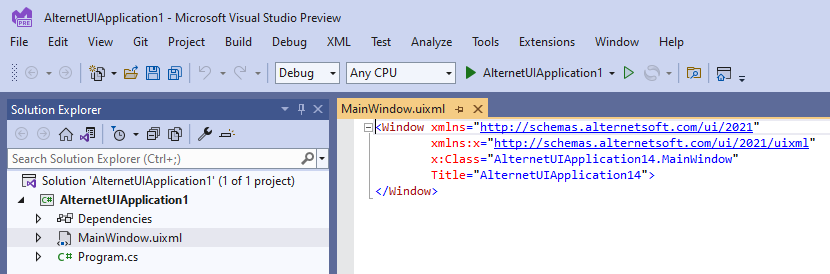
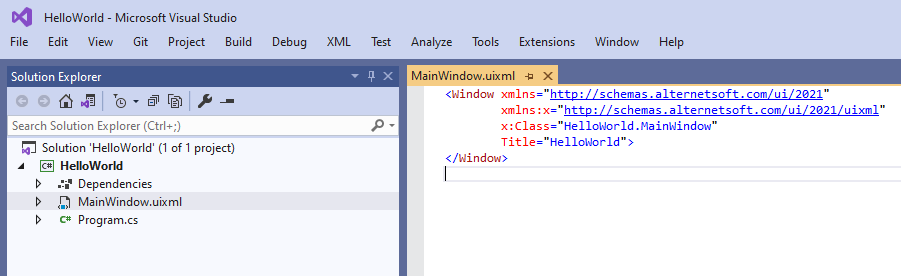
In progress.

diff --git a/Documentation/Alternet.UI.Documentation/tutorials/quick-start/visual-studio/quick-start-visual-studio.md b/Documentation/Alternet.UI.Documentation/tutorials/quick-start/visual-studio/quick-start-visual-studio.md
@@ -21,7 +21,42 @@ To develop on macOS or Linux, see [Quick Start with Command Line and VS Code](..
    **Create**.
 1. The project will be created and you will be presented with a development environment.
     ![New project in Visual Studio after creation](images/new-project-created.png)
+1. Press `Ctrl+F5` to build and run the application. The application will start and display its window:
+
+   ![Created Application Window](images/created-application-window-windows.png)
+
+1. In Visual Studio, open `MainWindow.uixml`. In the editor, change the `Title` attribute value from
+   `"HelloWorld"` to `"My First Application"`:
+   [!code-xml[](../examples/change-title.uixml?highlight=4)]
+1. Press `Ctrl+F5` to build and run the application and see its window title had changed accordingly.
 
 > [!NOTE]
 > By default the created project will use .NET Core 3.1 as a target framework. If .NET Core 3.1 runtime is not installed on your machine you
 > will be prompted to do so on the first application run.
+
+### Add Button to the Window
+
+1. In `MainWindow.uixml`, add the following markup:
+   [!code-xml[](../examples/add-button.uixml?highlight=5-7)]
+1. Run the application by pressing `Ctrl+F5`:
+   
+   ![Button Added](images/added-button-windows.png)
+
+### Write Code to Respond to the Button Click
+
+1. In `MainWindow.uixml`, add the `Click` attribute to the `Button` element like the following:
+   [!code-xml[](../examples/add-click-handler.uixml?highlight=6)]
+   This will bind the `Click` event to its handler named `HelloButton_Click`.
+1. In `MainWindow.uixml.cs` file, add the following `HelloButton_Click` method:
+   [!code-csharp[](../examples/add-click-handler.uixml.cs?highlight=1,13-16)]
+1. Run the application, then click **Say Hello** button. The message box appears:
+
+   ![MessageBox on Click](images/message-box-on-click-windows.png)
+
+> [!NOTE]
+> The application created in this tutorial can be compiled and run without any modifications on all the supported platforms: Windows, macOS, Linux.
+
+---
+*Congratulations, you have successfully completed the Quick Start tutorial using Microsoft Visual Studio.*
+
+*For a similar tutorial, but using command line tools and Visual Studio Code, see [Quick Start with Command Line and Visual Studio Code](../command-line/quick-start-command-line.md).*

diff --git a/Documentation/Alternet.UI.Documentation/tutorials/quick-start/command-line/quick-start-command-line.md b/Documentation/Alternet.UI.Documentation/tutorials/quick-start/command-line/quick-start-command-line.md
@@ -63,7 +63,7 @@ The application will start and display its window:
 1. Open `MainWindow.uixml` by clicking the corresponing item in the VS Code **Explorer** panel. In the editor, change the `Title` attribute value from
    `"HelloWorld"` to `"My First Application"`:
    [!code-xml[](../examples/change-title.uixml?highlight=4)]
-1. Press `F5` to build and run the application and see its window title had changed accordingly.
+1. Press `Ctrl+F5` to build and run the application and see its window title had changed accordingly.
 
 > [!NOTE]
 > For information and tutorials on general C# development and debugging with Visual Studio Code, see the
